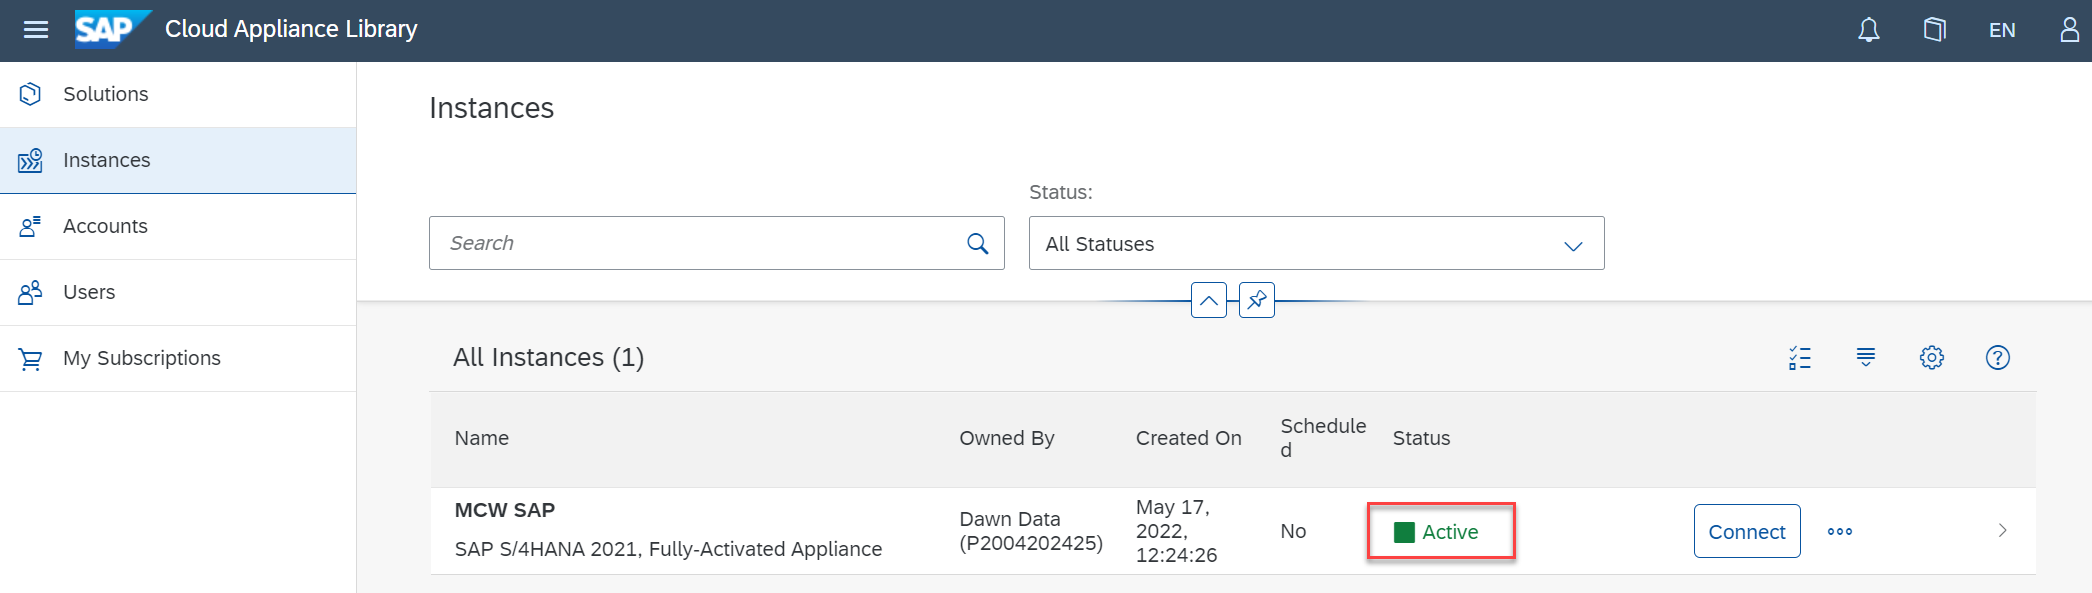
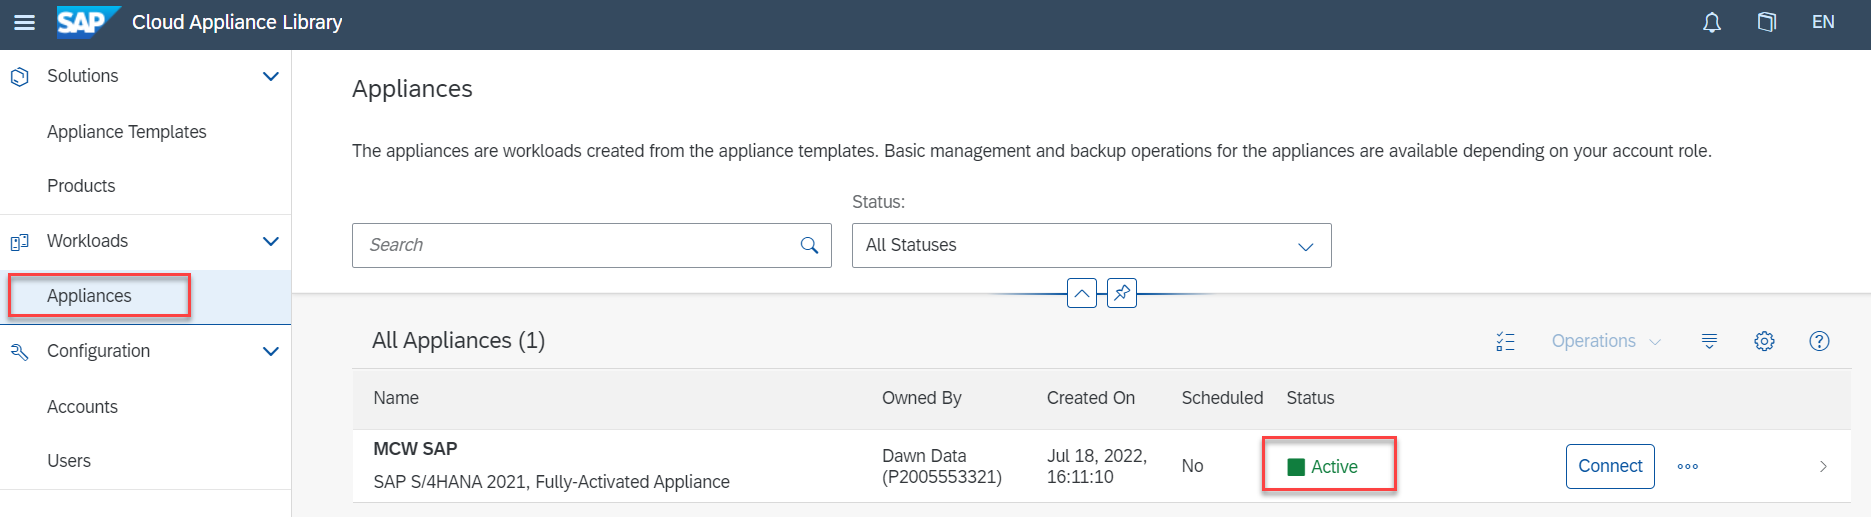
updated images and instructions for SAP CAL deployment (changed since first authoring)

diff --git a/Hands-on lab/Before the HOL - SAP_plus_extend_and_innovate.md b/Hands-on lab/Before the HOL - SAP_plus_extend_and_innovate.md
@@ -69,13 +69,13 @@ Duration: X minutes
 
 3. Either register for a new account, or log in with your existing credentials.
 
-4. On the SAP Cloud Appliance Library **Solutions** screen, search for and locate the **SAP S/4HANA 2021, Fully-Activated Appliance** item, and select the **Create Instance** button in the search results.
+4. On the SAP Cloud Appliance Library **Appliance Templates** screen, search for and locate the **SAP S/4HANA 2021, Fully-Activated Appliance** item, and select the **Create Appliance** button in the search results.
 
-    ![The Solutions screen displays with SAP S/4Hana 2021, Fully-Activated Appliance entered in the search box, and the Create Instance button highlighted in the search results listing.](media/locate_sap_appliance_create_instance_button.png "Create SAP S4/HANA instance")
+    ![The Appliance Templates screen displays with SAP S/4Hana 2021, Fully-Activated Appliance entered in the search box, and the Create Appliance button highlighted in the search results listing.](media/locate_sap_appliance_create_instance_button.png "Create SAP S4/HANA instance")
 
 5. On the **Terms and Conditions** screen, read the conditions of the 30-day trial license, and select the **I Accept** button to continue.
 
-6. On the **Basic Mode: Create Instance - Account Details** screen, enter the following values, then select the **Authorize** button:
+6. On the **Basic Mode: Create Appliance - Account Details** screen, enter the following values, then select the **Authorize** button:
 
     | Field | Value |
     |-------|-------|
@@ -91,7 +91,7 @@ Duration: X minutes
 
     ![A Permissions requested modal dialog displays with the Consent on behalf of your organization checkbox checked and the Accept button highlighted.](media/sapcal_consent_modal.png "SAP Cloud Appliance Library Permissions Requested")
 
-8. Returning to the **Basic Mode: Create Instance** screen fill the **Instance Details** form as follows and select **Create**:
+8. Returning to the **Basic Mode: Create Appliance** screen fill the **Appliance Details** form as follows and select **Create**:
 
     | Field | Value |
     |-------|-------|
@@ -130,7 +130,7 @@ Duration: X minutes
 
     ![The HANA studio icon.](media/sapvm_hanastudioicon.png "HANA Studio icon")
 
-5. In the **Select a directory as workspace** dialog, keep the default value and select **Launch**.
+5. In the **Select a directory as workspace** dialog, keep the default value and select **Launch**. Launching will take a few moments, please be patient.
 
     ![The Select a directory as workspace dialog displays with the Launch button highlighted.](media/sapvm_hanastudioworkspace_prompt.png "Select a directory as workspace dialog")
 
@@ -222,11 +222,11 @@ Duration: X minutes
     } where SDDocumentCategory = 'C'
     ```
 
-13. In the **Project Explorer**, expand the **S4H_100_s4h_ext_en** folder, then **Local Objects ($TMP)**, then **S4H_EXT**, then **Core Data Services**, and **Data Definitions**. Right-click on the **ZBD_ISALESDOCUMENT_E** view and select **Activate**.
+13. Right-click in the whitespace of the **ZBD_ISALESDOCUMENT_E** view code window and select **Activate**.
 
     ![The ZBD_ISALESDOCUMENT_E view displays a context menu with the **Activate** item selected.](media/sapvm_activatezbd_isalesdocument_e.png "Activate the ZBD_ISALESDOCUMENT_E view")
 
-14. Right-click the **ZBD_ISALESDOCUMENT_E** view once more, this time select **Open With** and choose **Data Preview**. This will display the raw data of the view.
+14. Right-click in the whitespace of the **ZBD_ISALESDOCUMENT_E** view once more, this time select **Open With** and choose **Data Preview**. This will display the raw data of the view.
 
     ![The ZBD_ISALESDOCUMENT_E view displays a context menu with the Open With and Data Preview items selected.](media/sapvm_preview_menuitem_zbd_isalesdocument_e.png "Preview ZBD_ISALESDOCUMENT_E view")
 
